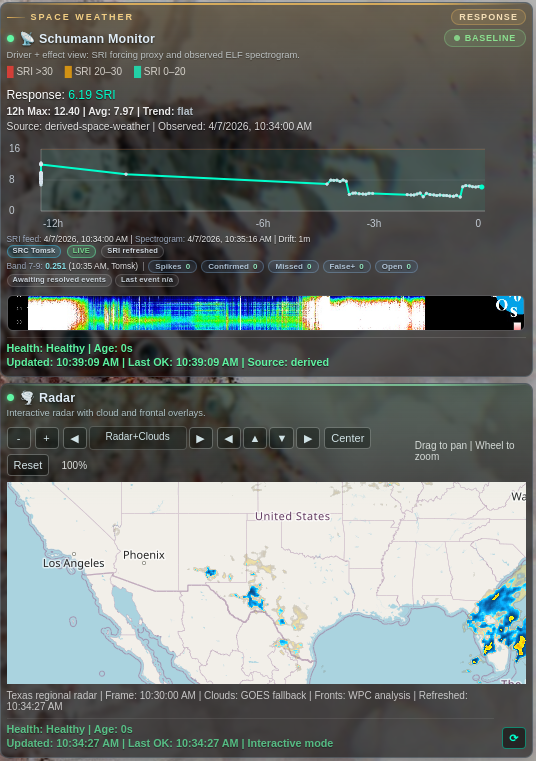
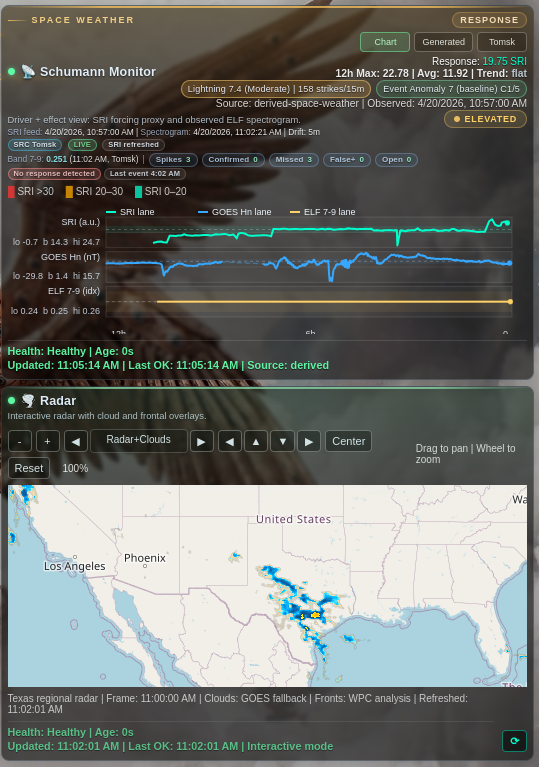
Add Schumann chips screenshot to docs

diff --git a/README.md b/README.md
@@ -22,9 +22,9 @@ Full dashboard view:
 
 Widget snapshots:
 
-![Img1](Screenshots/img1.png)
-![Img1](Screenshots/img2.png)
-![Img1](Screenshots/img3.png)
+![Widget Snapshot 1](Screenshots/img1.png)
+![Widget Snapshot 2](Screenshots/img2.png)
+![Schumann Lightning + Event Anomaly Chips](Screenshots/img3.png)
 
 Note: `weather.png` intentionally blurs the local city for privacy.
 

diff --git a/sanitized-template/README.md b/sanitized-template/README.md
@@ -27,6 +27,7 @@ Widget snapshots:
 ![Volcano](../Screenshots/volcano.png)
 ![Solar](../Screenshots/solar.png)
 ![Schumann](../Screenshots/Schumann.png)
+![Schumann Lightning + Event Anomaly Chips](../Screenshots/img3.png)
 ![NEOs](../Screenshots/neos.png)
 ![Weather](../Screenshots/weather.png)
 ![Alerts](../Screenshots/alerts.png)
